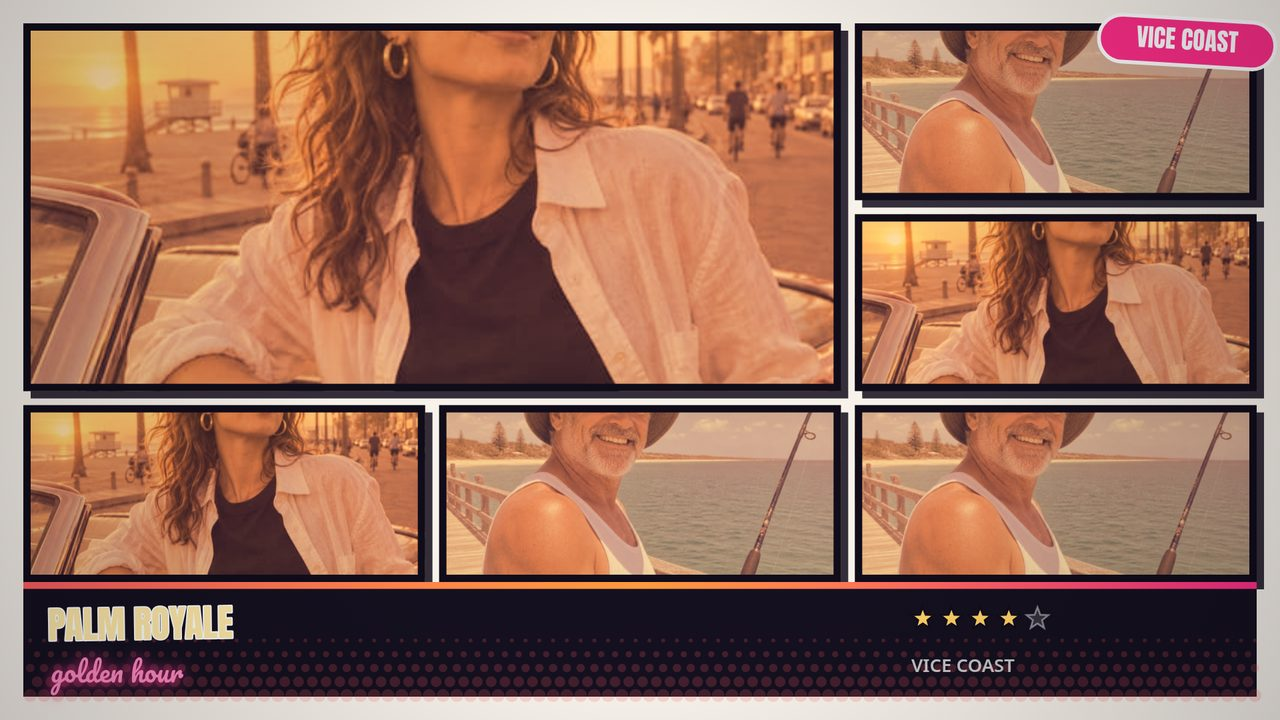
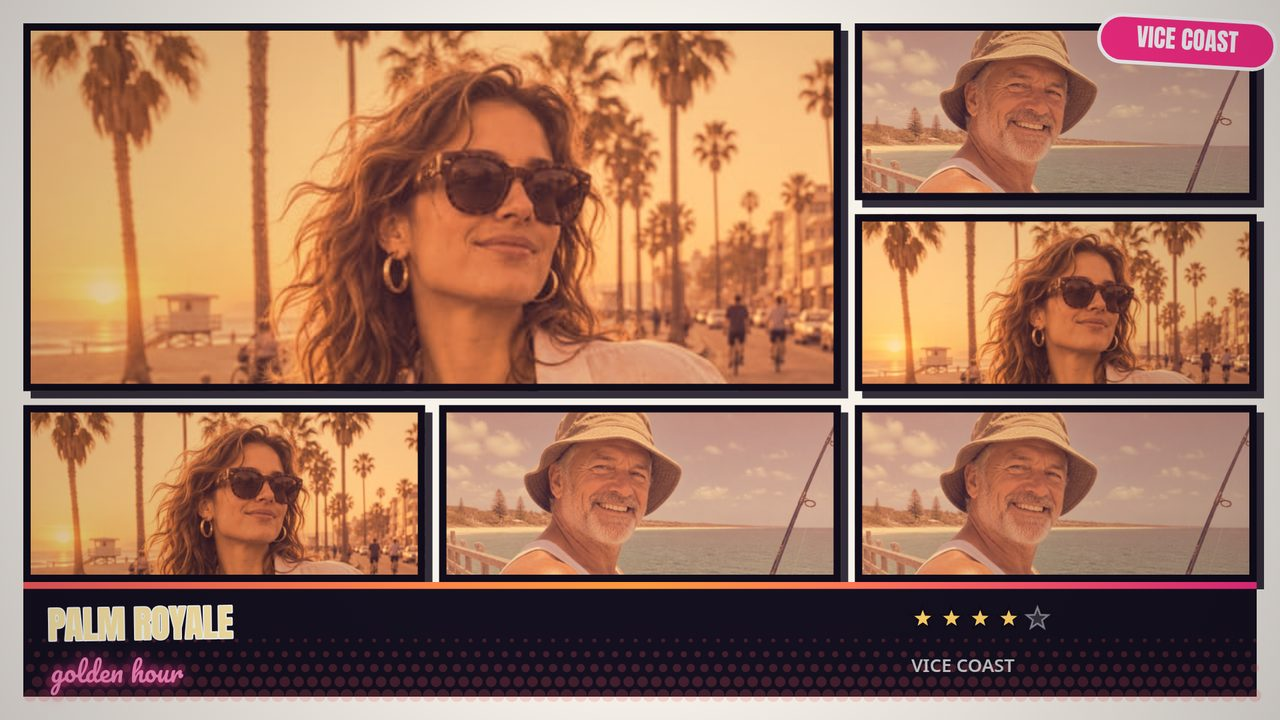
Fix hero crop: anchor photo focus near the top (fy 0.05)
The wide hero panel only shows about a third of a portrait photo's
height, so fy 0.35 put the crop band below the face - only the
woman's mouth and chin showed. Anchoring near the top keeps her
whole face (and the fisherman's hat) in frame in every panel.
Screenshots re-rendered through the app's export flow.

diff --git a/app/src/cover.js b/app/src/cover.js
@@ -194,8 +194,10 @@ export function hitPanel(layout, W, H, x, y) {
  * Draws `img` into an offscreen context of ow x oh, cover-fitting with a
  * focus point in the photo's own fractions, then the user's zoom and pan
  * offsets. The focus keeps heads in frame when a portrait photo fills a
- * wide panel: fy 0.35 anchors the crop on the upper third instead of the
- * middle, where a face usually is.
+ * wide panel: a face sits in the photo's top third, and a wide panel only
+ * shows about a third of the photo's height, so fy 0.05 anchors the crop
+ * near the top of the photo instead of the middle. (fy 0.35 put the band
+ * below the face: only the mouth and chin showed in the hero panel.)
  */
 export function coverDrawImage(octx, img, ow, oh, zoom, ox, oy) {
   const base = Math.max(ow / img.naturalWidth, oh / img.naturalHeight);
@@ -203,7 +205,7 @@ export function coverDrawImage(octx, img, ow, oh, zoom, ox, oy) {
   const dw = img.naturalWidth * scale;
   const dh = img.naturalHeight * scale;
   const fx = 0.5;
-  const fy = 0.35;
+  const fy = 0.05;
   let dx = dw > ow ? -(dw - ow) * fx : (ow - dw) / 2;
   let dy = dh > oh ? -(dh - oh) * fy : (oh - dh) / 2;
   dx += (ox || 0) * ow * 0.5;
